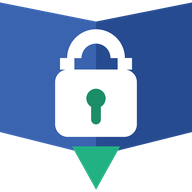
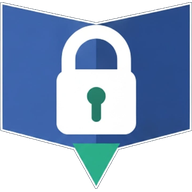
new ico

diff --git a/frontend/vite.config.ts b/frontend/vite.config.ts
@@ -22,9 +22,6 @@ export default defineConfig({
         display: 'standalone',
         start_url: '/',
         icons: [
-          // Vector first: crisp at any size on platforms that support SVG icons
-          // (e.g. Chrome/Android). PNGs are the fallback (e.g. iOS).
-          { src: '/favicon.svg', sizes: 'any', type: 'image/svg+xml', purpose: 'any maskable' },
           { src: '/icon-192.png', sizes: '192x192', type: 'image/png', purpose: 'any maskable' },
           { src: '/icon-512.png', sizes: '512x512', type: 'image/png', purpose: 'any maskable' },
         ],

diff --git a/frontend/index.html b/frontend/index.html
@@ -2,7 +2,7 @@
 <html lang="en">
   <head>
     <meta charset="UTF-8" />
-    <link rel="icon" type="image/svg+xml" href="/favicon.svg" />
+    <link rel="icon" type="image/png" href="/favicon.png" />
     <link rel="apple-touch-icon" href="/icon-192.png" />
     <meta name="viewport" content="width=device-width, initial-scale=1.0" />
     <meta name="robots" content="noindex, nofollow" />

diff --git a/frontend/scripts/generate-icons.py b/frontend/scripts/generate-icons.py
@@ -1,82 +1,49 @@
 #!/usr/bin/env python3
-"""Generate the PWA app icons from the bpad glyph.
+"""Generate the app icons from the bpad artwork.
 
-The glyph (open book + padlock + bookmark) mirrors ``public/favicon.svg``. It is
-rendered on a fully transparent background and bled to the tile edges — the book's
-top corners touch the left/right edges, no margin — so the icon reads as large as
-possible next to other apps.
+``icon-master.png`` is the source of truth: the book + padlock + bookmark glyph
+on a fully transparent background (its dark backdrop already removed), cropped to
+the artwork. This script scales it, without distortion, into square transparent
+tiles bled to the edges:
 
-We emit ``icon-192.png`` / ``icon-512.png``; the manifest uses the 512 for both
-``any`` and ``maskable`` (the lock + keyhole stay well inside the maskable safe
-zone, so a mask only ever clips the outer page corners).
+* ``public/icon-192.png`` / ``public/icon-512.png`` — PWA / home-screen icons.
+* ``public/favicon.png`` — browser-tab icon.
 
-Run: ``python3 scripts/generate-icons.py`` (needs Pillow). Output goes to
-``public/``. Keep this in sync with ``favicon.svg``.
+Run: ``python3 scripts/generate-icons.py`` (needs Pillow). To change the artwork,
+replace ``icon-master.png`` and re-run.
 """
 
 import os
-from PIL import Image, ImageDraw
+from PIL import Image
 
-OUT = os.path.join(os.path.dirname(__file__), "..", "public")
+HERE = os.path.dirname(__file__)
+OUT = os.path.join(HERE, "..", "public")
+MASTER = os.path.join(HERE, "icon-master.png")
 
-LEFT_PAGE = (58, 99, 176)  # #3A63B0
-RIGHT_PAGE = (39, 75, 144)  # #274B90
-BOOKMARK = (34, 177, 131)  # #22B183
-WHITE = (255, 255, 255)
-KEYHOLE = (27, 142, 105)   # #1B8E69
-
-# Glyph geometry in a 0..48 art box (matches favicon.svg, offset by its 8/13
-# viewBox origin). Content spans x[4..44] y[4..43], centred on (24, 23.5).
-ART_CX, ART_CY = 24.0, 23.5
-ART_W = 40.0  # reference span used for the fill fraction
-
-SS = 8  # supersampling factor for anti-aliasing (PIL's draw has none of its own)
+# (filename, size) tiles to emit.
+TILES = [
+    ("icon-192.png", 192),
+    ("icon-512.png", 512),
+    ("favicon.png", 64),
+]
 
 
-def render(size: int, fill: float) -> Image.Image:
-    """Render the glyph on a transparent background at ``size`` px.
-
-    ``fill`` is the fraction of the tile width the glyph's bounding box spans;
-    ``fill = 1.0`` bleeds the book's top corners to the left/right edges.
-    """
-    T = size * SS
-    scale = fill * T / ART_W
-    img = Image.new("RGBA", (T, T), (0, 0, 0, 0))
-    d = ImageDraw.Draw(img)
-
-    def P(x, y):
-        return (T / 2 + (x - ART_CX) * scale, T / 2 + (y - ART_CY) * scale)
-
-    # Open book: two pages meeting at the spine.
-    d.polygon([P(4, 4), P(24, 8), P(24, 36), P(4, 31)], fill=LEFT_PAGE)
-    d.polygon([P(44, 4), P(24, 8), P(24, 36), P(44, 31)], fill=RIGHT_PAGE)
-    # Bookmark tab.
-    d.polygon([P(19, 34), P(29, 34), P(24, 43)], fill=BOOKMARK)
-
-    # Padlock shackle: top semicircle + two legs, tucked behind the body.
-    stroke = 3 * scale
-    sx0, sy0 = P(18, 9.6)
-    sx1, sy1 = P(30, 21.6)
-    d.arc([sx0, sy0, sx1, sy1], 180, 360, fill=WHITE, width=int(round(stroke)))
-    d.line([P(18, 15.6), P(18, 18)], fill=WHITE, width=int(round(stroke)))
-    d.line([P(30, 15.6), P(30, 18)], fill=WHITE, width=int(round(stroke)))
-
-    # Padlock body.
-    d.rounded_rectangle([P(15.5, 18), P(32.5, 32)], radius=2.6 * scale, fill=WHITE)
-
-    # Keyhole.
-    kx, ky = P(24, 24)
-    r = 2 * scale
-    d.ellipse([kx - r, ky - r, kx + r, ky + r], fill=KEYHOLE)
-    d.rounded_rectangle([P(23, 24.4), P(25, 29.4)], radius=1 * scale, fill=KEYHOLE)
-
-    return img.resize((size, size), Image.LANCZOS)
+def tile(master: Image.Image, size: int) -> Image.Image:
+    """Fit the artwork into a ``size`` square transparent tile, centred."""
+    aw, ah = master.size
+    scale = size / max(aw, ah)
+    nw, nh = round(aw * scale), round(ah * scale)
+    art = master.resize((nw, nh), Image.LANCZOS)
+    canvas = Image.new("RGBA", (size, size), (0, 0, 0, 0))
+    canvas.alpha_composite(art, ((size - nw) // 2, (size - nh) // 2))
+    return canvas
 
 
 def main() -> None:
-    render(192, 1.0).save(os.path.join(OUT, "icon-192.png"))
-    render(512, 1.0).save(os.path.join(OUT, "icon-512.png"))
-    print("wrote icon-192.png, icon-512.png")
+    master = Image.open(MASTER).convert("RGBA")
+    for name, size in TILES:
+        tile(master, size).save(os.path.join(OUT, name))
+    print("wrote", ", ".join(name for name, _ in TILES))
 
 
 if __name__ == "__main__":
